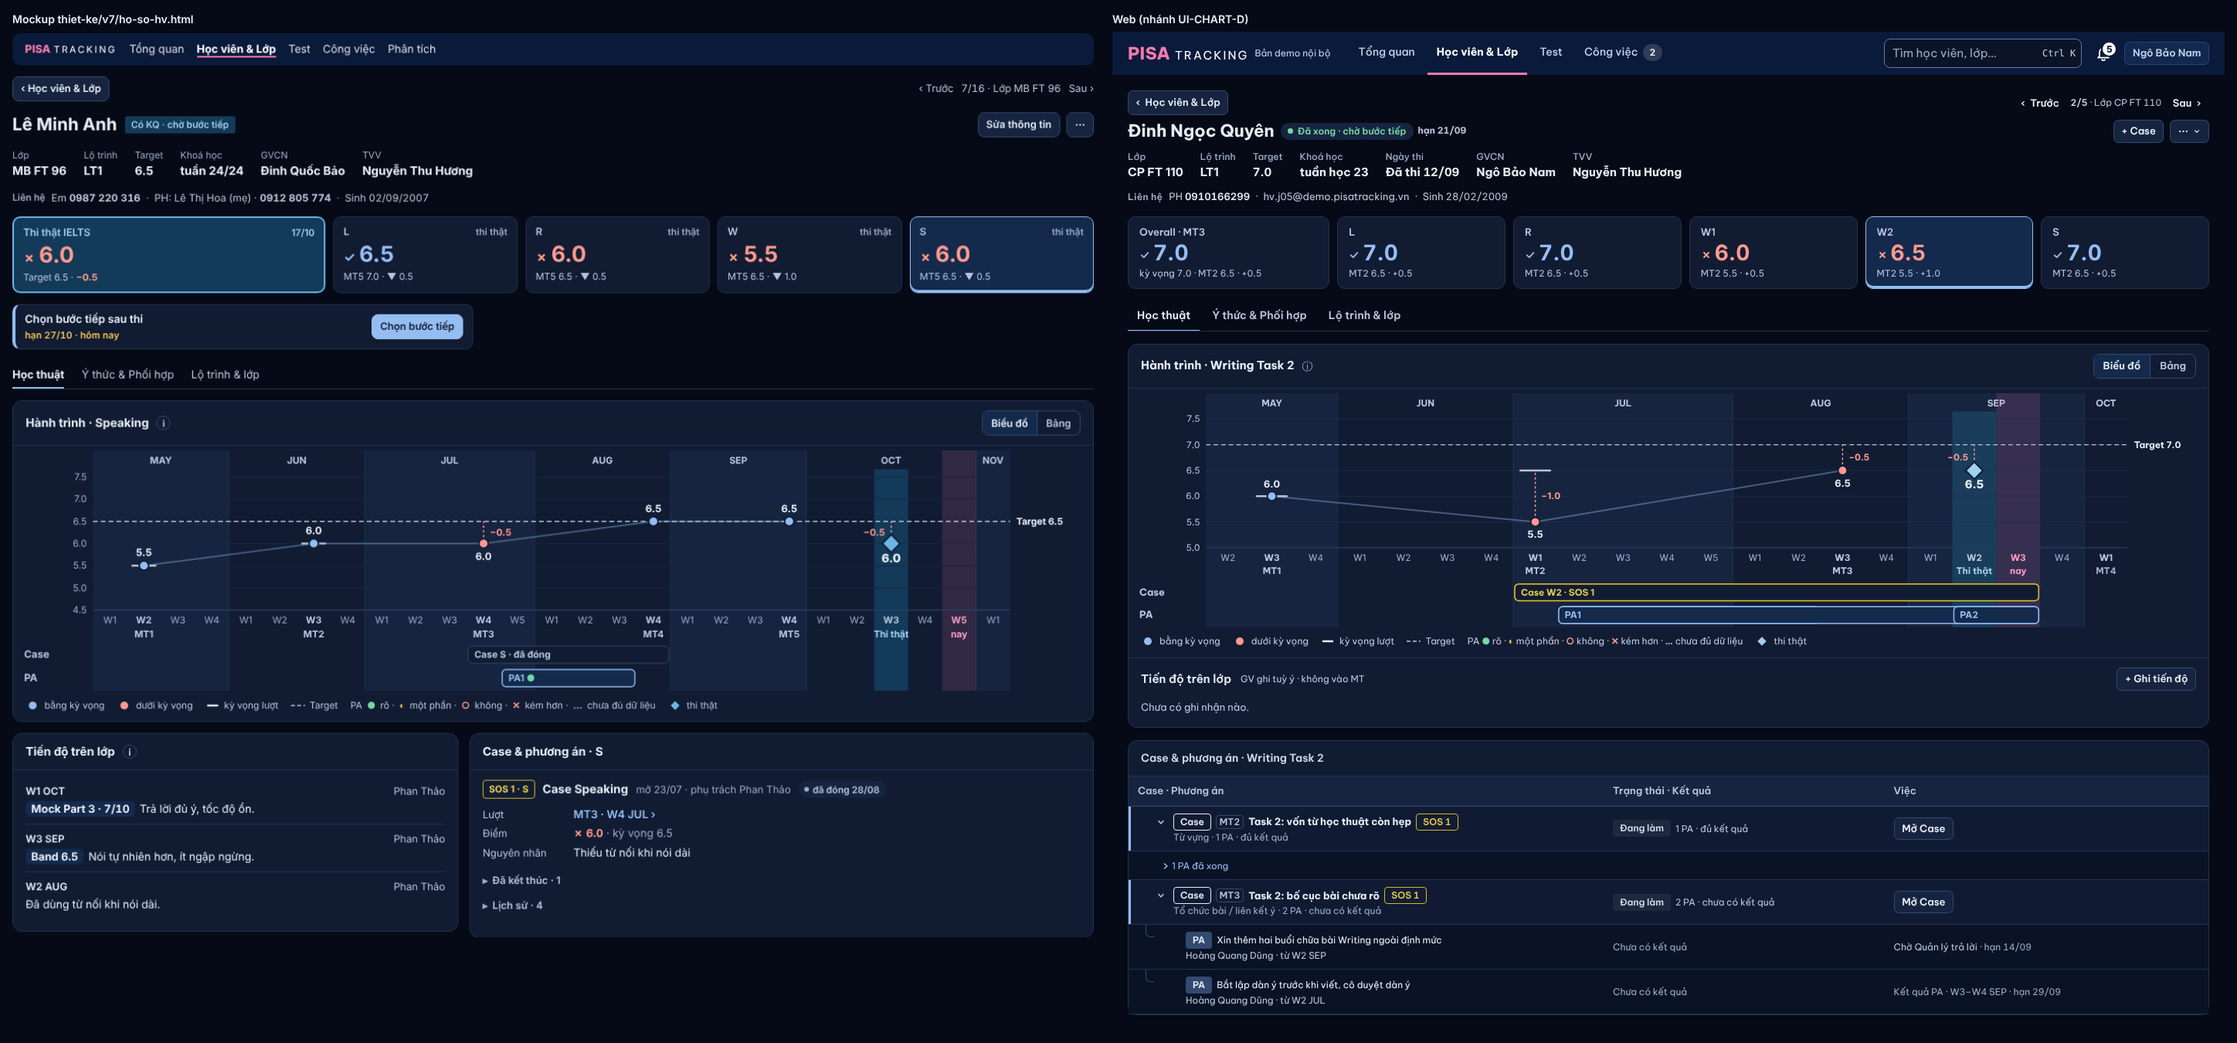
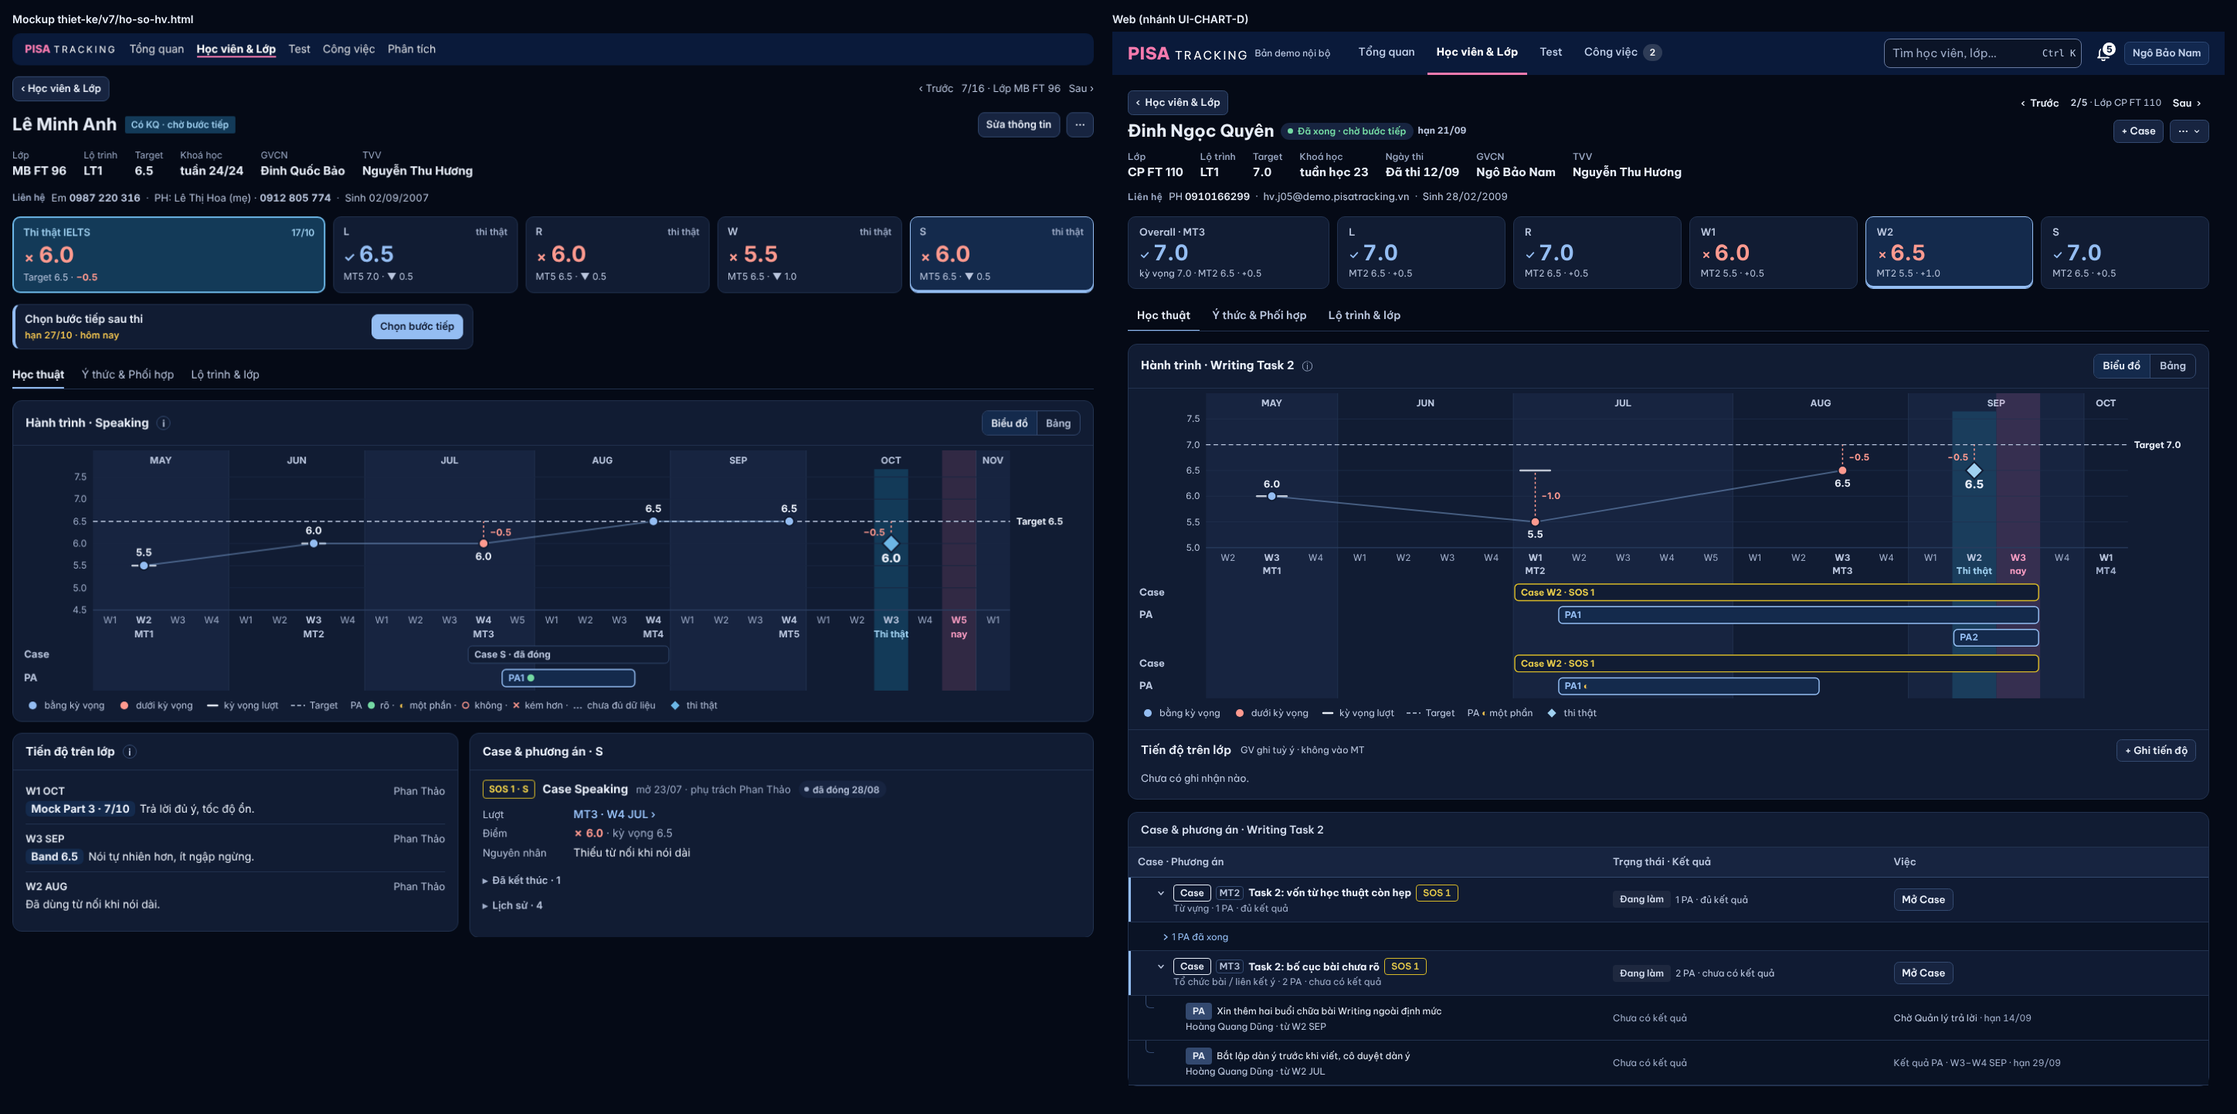
UI-CHART-D: sửa sau critique vòng 2
- Case chồng thời gian → làn riêng; PA song song → hàng PA riêng (không thanh nào bị che, không điểm Tab ẩn)
- S Ex lỗi tải: báo + Thử lại; Speaking chờ S Ex rồi mới vẽ (trục không nhảy)
- Space như Enter, Enter đóng hộp nhỏ trước khi mở; "?" 12 px; chú giải PA chỉ ký hiệu có; ⓘ nói Enter; nhớ Biểu đồ | Bảng trong phiên
- hàng Thi thật chờ KQ bỏ chữ lặp; MT › 375 rộng 44 px; khop-khac [XM-3] [XM-4]

Claude-Session: https://claude.ai/code/session_01RTBZa1KZMGquWszZKdt5DW

diff --git a/web/src/modules/students/BieuDoD.tsx b/web/src/modules/students/BieuDoD.tsx
@@ -86,9 +86,30 @@ export function BieuDoD(o: BieuDoDProps) {
   const trong = (iso: string) => { const c = cot(iso); return c >= 0 && c < n; };
   const Xl = (iso: string) => x0 + Math.min(n, Math.max(0, cot(iso))) * cw;
   const Xc = (iso: string) => Xl(iso) + cw / 2;
-  const coPa = o.cases.some((c) => c.pa.length);
+  /* Case chồng thời gian → làn riêng (mỗi làn một hàng Case + một hàng PA nếu có): không Case nào bị che. */
+  const lan: { cs: CaseD[]; het: number; coPa: boolean; paHang?: Map<number, number>; soHang?: number }[] = [];
+  const hetPa = (p: PaD) => cot(p.den ?? (p.denDk && p.denDk > nay ? p.denDk : nay));
+  [...o.cases].sort((a, b) => a.mo.localeCompare(b.mo) || a.id - b.id).forEach((c) => {
+    const dau = cot(c.mo), het = Math.max(cot(c.dong ?? nay), ...c.pa.map(hetPa));
+    const l = lan.find((x) => x.het < dau);
+    if (l) { l.cs.push(c); l.het = Math.max(l.het, het); l.coPa ||= c.pa.length > 0; } else lan.push({ cs: [c], het, coPa: c.pa.length > 0 });
+  });
   const py0 = 34, py1 = py0 + 170, wy = py1 + 17, mky = py1 + (day_ ? 17 : 35);
-  const cy = mky + 24, pyy = cy + 30, H = o.cases.length ? (coPa ? pyy + 16 : cy + 16) : mky + 10;
+  /* PA chạy song song trong một làn → hàng PA riêng (cùng cách chia làn). */
+  lan.forEach((l) => {
+    const hang: number[] = [];
+    l.paHang = new Map();
+    l.cs.flatMap((c) => c.pa).sort((a, b) => a.tu.localeCompare(b.tu)).forEach((p) => {
+      let i = hang.findIndex((h) => h < cot(p.tu));
+      if (i < 0) { i = hang.length; hang.push(0); }
+      hang[i] = hetPa(p); l.paHang!.set(p.id, i);
+    });
+    l.soHang = hang.length;
+  });
+  const lanY: { cy: number; pyy: number }[] = [];
+  let yLan = mky + 24;
+  lan.forEach((l) => { lanY.push({ cy: yLan, pyy: yLan + 30 }); yLan += 34 + 30 * (l.soHang ?? 0); });
+  const H = lan.length ? yLan - 18 : mky + 10;
   const Y = (v: number) => py1 - ((py1 - py0) * (v - o.lo)) / (o.hi - o.lo);
   const fmt = o.fmt;
 
@@ -98,7 +119,7 @@ export function BieuDoD(o: BieuDoDProps) {
     <g key={k} className="diem-d" tabIndex={0} role="button" aria-label={[g.tieu, ...g.dong].join(' · ')} style={{ cursor: 'pointer', outline: 'none' }}
       onMouseEnter={() => mo(x, y, g, true)} onMouseLeave={() => setGoi((c) => (c?.re && c.g === g ? null : c))}
       onFocus={() => mo(x, y, g)} onClick={() => mo(x, y, g)}
-      onKeyDown={(e) => { if (e.key !== 'Enter') return; if (g.href) navigate(g.href); else g.mo?.(); }}>
+      onKeyDown={(e) => { if (e.key !== 'Enter' && e.key !== ' ') return; e.preventDefault(); setGoi(null); if (g.href) navigate(g.href); else g.mo?.(); }}>
       <rect x={x - 14} y={y - 14} width="28" height="28" fill="transparent" />
       {noi}
     </g>
@@ -191,7 +212,7 @@ export function BieuDoD(o: BieuDoDProps) {
     if (p.loai === 'thieu') {   // chưa có điểm = việc còn nợ, khác vắng: vòng liền + "?"
       ve.push(dau(p.khoa, x, py1, p.goi, <>
         <circle cx={x} cy={py1} r="7" fill="var(--surface)" stroke="rgb(var(--soon-rgb))" strokeWidth="1.5" />
-        <text x={x} y={py1 + 4} textAnchor="middle" fontSize="11" fontWeight="700" fill="rgb(var(--soon-rgb))">?</text>
+        <text x={x} y={py1 + 4} textAnchor="middle" fontSize="12" fontWeight="700" fill="rgb(var(--soon-rgb))">?</text>
       </>));
       return;
     }
@@ -247,17 +268,18 @@ export function BieuDoD(o: BieuDoDProps) {
       {w2 > chuDai * 6.6 + 12 && <text x={a + 8} y={y + 4} fontSize="12" fontWeight="700" fill={mauChu} fontFamily={PHONG}>{chu}</text>}
     </>);
   };
-  if (o.cases.length) {
-    ve.push(<text key="lc" x={0} y={cy + 4} fontSize="13" fontWeight="700" fill="var(--text-dim)" fontFamily={PHONG}>Case</text>);
-    if (coPa) ve.push(<text key="lp" x={0} y={pyy + 4} fontSize="13" fontWeight="700" fill="var(--text-dim)" fontFamily={PHONG}>{t('PA')}</text>);
-    o.cases.forEach((c) => {
+  lan.forEach((l, li) => {
+    const { cy, pyy } = lanY[li];
+    ve.push(<text key={`lc${li}`} x={0} y={cy + 4} fontSize="13" fontWeight="700" fill="var(--text-dim)" fontFamily={PHONG}>Case</text>);
+    if (l.coPa) ve.push(<text key={`lp${li}`} x={0} y={pyy + 4} fontSize="13" fontWeight="700" fill="var(--text-dim)" fontFamily={PHONG}>{t('PA')}</text>);   // một nhãn cho mọi hàng PA của làn
+    l.cs.forEach((c) => {
       const dong = !!c.dong, s2 = (c.sos ?? 0) >= 2;
       const mauV = s2 ? 'rgb(var(--sos2-rgb))' : 'rgb(var(--sos1-rgb))';
       const chu = `Case ${c.chu}${dong ? ` · ${t('đã đóng')}` : c.sos ? ` · SOS ${c.sos}` : ''}`;
       ve.push(thanh(`c${c.id}`, Xl(c.mo) + 2, Xl(c.dong ?? nay) + cw - 2, cy, dong ? 'var(--surface)' : s2 ? 'var(--sos2-nen)' : 'var(--surface)', dong ? 'var(--line-strong)' : mauV,
         chu, chu.length, dong ? 'var(--text-dim)' : s2 ? 'rgb(var(--sos2-chu-rgb))' : 'rgb(var(--sos1-chu-rgb))', c.goi, dong));
       c.pa.forEach((p) => {
-        const g = p.kq ? KQ_PA[p.kq] : null;
+        const g = p.kq ? KQ_PA[p.kq] : null, pyy = lanY[li].pyy + 30 * (l.paHang!.get(p.id) ?? 0);
         if (!p.den && p.denDk && cot(p.denDk) > cot(nay) && trong(nay)) {
           const a = Xl(nay) + cw, b = Xl(p.denDk) + cw;
           ve.push(<g key={`pk${p.id}`} aria-hidden>
@@ -269,7 +291,7 @@ export function BieuDoD(o: BieuDoDProps) {
           <>{p.ten}{g && <>{p.den ? ' ' : ' · '}<tspan fill={g[1]}>{g[0]}</tspan></>}</>, p.ten.length + (g ? 3 : 0), 'var(--accent)', p.goi));
       });
     });
-  }
+  });
 
   /* hộp nhỏ: đặt dưới dấu, kẹp trong khung */
   const goiX = goi ? Math.min(Math.max(8, goi.x - 90), W - 290) : 0;
@@ -300,7 +322,9 @@ export function BieuDoD(o: BieuDoDProps) {
 
 /** Chú giải dưới chart (chỉ mục có trên chart; đọc màn bỏ qua — mỗi dấu đã có tên riêng). */
 export function ChuGiaiD({ kq, kvLuot, vang, thieu, tamDung, sex, pa, thi, kvChu }: {
-  kq: { vuot: boolean; bang: boolean; duoi: boolean } | 'thuong'; kvLuot: boolean; vang: boolean; thieu: boolean; tamDung: boolean; sex: boolean; pa: boolean;
+  kq: { vuot: boolean; bang: boolean; duoi: boolean } | 'thuong'; kvLuot: boolean; vang: boolean; thieu: boolean; tamDung: boolean; sex: boolean;
+  /** Mã kết quả PA có trên chart (chỉ giải thích ký hiệu đang thấy). */
+  pa: string[];
   thi: 'kq' | 'cho' | 'du-kien' | null; kvChu: string;
 }) {
   const c = (x: ReactNode) => <svg viewBox="0 0 18 12" width="18" height="12" className="overflow-visible" aria-hidden>{x}</svg>;
@@ -316,8 +340,8 @@ export function ChuGiaiD({ kq, kvLuot, vang, thieu, tamDung, sex, pa, thi, kvChu
       {tamDung && <span className="inline-flex items-center gap-1.5 whitespace-nowrap">{c(<rect x="0" y="1" width="18" height="10" fill="var(--surface-2)" stroke="var(--line-strong)" />)}{t('Tạm dừng')}</span>}
       {vang && <span className="inline-flex items-center gap-1.5 whitespace-nowrap">{c(<circle cx="9" cy="6" r="4.5" fill="none" stroke="var(--text-dim)" strokeDasharray="2.5 2" />)}{t('vắng')}</span>}
       {sex && <span className="inline-flex items-center gap-1.5 whitespace-nowrap">{c(<rect x="5" y="2" width="8" height="8" transform="rotate(45 9 6)" fill="none" stroke="var(--hong)" strokeWidth="1.6" />)}{t('S Ex (không tính)')}</span>}
-      {pa && <span className="whitespace-nowrap">{t('PA')} {(['improved', 'partial', 'unchanged', 'worse', 'insufficient'] as const).map((k, i) => (
-        <span key={k}>{i > 0 && ' · '}<b style={{ color: KQ_PA[k][1] }}>{KQ_PA[k][0]}</b> {[t('rõ'), t('một phần'), t('không'), t('kém hơn'), t('chưa đủ dữ liệu')][i]}</span>
+      {pa.length > 0 && <span className="whitespace-nowrap">{t('PA')} {(['improved', 'partial', 'unchanged', 'worse', 'insufficient'] as const).filter((k) => pa.includes(k)).map((k, i) => (
+        <span key={k}>{i > 0 && ' · '}<b style={{ color: KQ_PA[k][1] }}>{KQ_PA[k][0]}</b> {{ improved: t('rõ'), partial: t('một phần'), unchanged: t('không'), worse: t('kém hơn'), insufficient: t('chưa đủ dữ liệu') }[k]}</span>
       ))}</span>}
       {thi === 'kq' && <span className="inline-flex items-center gap-1.5 whitespace-nowrap">{c(<rect x="5" y="2" width="8" height="8" transform="rotate(45 9 6)" fill="var(--lich-chu)" />)}{t('thi thật')}</span>}
       {thi === 'cho' && <span className="inline-flex items-center gap-1.5 whitespace-nowrap">{c(<rect x="0" y="0" width="18" height="12" fill="var(--lich-nen)" />)}{t('thi thật · chờ kết quả')}</span>}

diff --git a/web/src/modules/students/HanhTrinhKyNang.tsx b/web/src/modules/students/HanhTrinhKyNang.tsx
@@ -215,6 +215,9 @@ function duLieuKn({ kn, row, attempts, cy, sEx, homNay, tenKn, ten, onMoCase }: 
     fmt: ratio ? (v: number) => `${Math.round(v)} %` : (v: number) => fmtBand(v) };
 }
 
+/** Biểu đồ | Bảng nhớ trong phiên (đổi kỹ năng / qua Overall rồi về vẫn giữ). */
+let xemNho: 'bieu' | 'bang' = 'bieu';
+
 /**
  * HÀNH TRÌNH · {kỹ năng} (UI-CHART-D, mockup M5): đầu khối "Hành trình · Speaking" ⓘ + Biểu đồ | Bảng. Biểu đồ = chart D; Bảng = Lượt · Tuần · Band · Kỳ vọng · ± ·
  * Ghi chú (nhận xét bài MT của kỹ năng ở lượt đó; không có thì vắng / không học / dự kiến), hàng cuối Thi thật. 375: luôn Bảng (chart nhiều cột không đọc được).
@@ -228,7 +231,8 @@ export function HanhTrinhKn({ studentId, kn, row, attempts, cy, homNay, tenKn, t
 }) {
   const sExApi = useApi<SEx[]>(kn === 'speaking' ? `/students/${studentId}/s-expert` : null, [studentId, kn]);
   const hep = useDienThoai();
-  const [xem, setXem] = useState<'bieu' | 'bang'>('bieu');
+  const [xem, setXem_] = useState<'bieu' | 'bang'>(() => xemNho);
+  const setXem = (v: 'bieu' | 'bang') => { xemNho = v; setXem_(v); };
   const tenLuot_ = (a: LuotD) => (cy.ratio ? tenBaiThuong(attempts, a) : tenLuot(a));
   const d = duLieuKn({ kn, row, attempts, cy, sEx: sExApi.data ?? [], homNay, tenKn, ten: tenLuot_, onMoCase });
   const bang = hep || xem === 'bang';
@@ -240,7 +244,7 @@ export function HanhTrinhKn({ studentId, kn, row, attempts, cy, homNay, tenKn, t
         <NutLuat label={t('Cách đọc hành trình')}>
           {cy.ratio
             ? t('Chấm = điểm bài của môn (% so tổng), màu theo ngưỡng đạt của lớp · vạch đứt = ngưỡng đạt · cột hồng = tuần này.')
-            : t('Chấm = điểm MT, màu theo kỳ vọng của lượt · vạch ngắn = kỳ vọng lượt · đứt = Target · cột hồng = tuần này · cột xanh lơ = thi thật. Chạm hoặc Tab một dấu để xem chi tiết.')}
+            : t('Chấm = điểm MT, màu theo kỳ vọng của lượt · vạch ngắn = kỳ vọng lượt · đứt = Target · cột hồng = tuần này · cột xanh lơ = thi thật. Chạm hoặc Tab một dấu để xem chi tiết; Enter mở hồ sơ lượt hoặc Case.')}
         </NutLuat>
         {!hep && (
           <span className="ml-auto inline-flex overflow-hidden rounded-lg border" style={{ borderColor: 'var(--line-strong)' }} role="group" aria-label={t('Kiểu xem')}>
@@ -252,14 +256,20 @@ export function HanhTrinhKn({ studentId, kn, row, attempts, cy, homNay, tenKn, t
           </span>
         )}
       </div>
-      {!d.diem.length && !d.thi ? (
+      {kn === 'speaking' && sExApi.error && (
+        <p className="m-0 flex flex-wrap items-center gap-2 px-4 pt-2 text-[13px] text-slate-400" role="status">{t('Không tải được S Ex.')}
+          <button type="button" className="link appearance-none border-0 bg-transparent p-0 text-[13px] font-semibold" onClick={sExApi.reload}>{t('Thử lại')}</button></p>
+      )}
+      {kn === 'speaking' && !sExApi.data && !sExApi.error && !bang ? <div className="p-4"><Skeleton rows={4} /></div>
+        : !d.diem.length && !d.thi ? (
         <p className="m-0 px-4 py-6 text-center text-[14px] text-slate-400">{t('Chưa có lượt nào ở {kn}.', { kn: tenKn })}</p>
       ) : bang ? <BangKn kn={kn} d={d} cy={cy} homNay={homNay} hep={hep} /> : (
         <>
           <BieuDoD ten={tenKn} diem={d.diem} sex={d.sex} target={d.target} kvPhang={d.kvPhang} cases={d.cases} thi={d.thi} homNay={homNay} tamDung={tamDung} lo={d.lo} hi={d.hi} buoc={d.buoc} fmt={d.fmt} />
           <ChuGiaiD kq={cy.ratio ? 'thuong' : { vuot: d.diem.some((x) => kqSo(x.v, x.kv) === 'vuot'), bang: d.diem.some((x) => kqSo(x.v, x.kv) === 'bang'), duoi: d.diem.some((x) => kqSo(x.v, x.kv) === 'duoi') }}
             kvLuot={!cy.ratio && d.diem.some((x) => x.kv != null && x.kv !== (d.target?.filter((g) => !g.tu || g.tu <= x.tuan).at(-1)?.v ?? null))}
-            vang={d.diem.some((x) => x.loai === 'vang')} thieu={d.diem.some((x) => x.loai === 'thieu')} tamDung={!!tamDung?.length} sex={d.sex.length > 0} pa={d.cases.some((c) => c.pa.length > 0)}
+            vang={d.diem.some((x) => x.loai === 'vang')} thieu={d.diem.some((x) => x.loai === 'thieu')} tamDung={!!tamDung?.length} sex={d.sex.length > 0}
+            pa={d.cases.flatMap((c) => c.pa.map((p) => p.kq).filter((k): k is string => !!k))}
             thi={!d.thi ? null : d.thi.v != null ? 'kq' : d.thi.cho ? 'cho' : 'du-kien'} kvChu={d.kvPhang?.chu ?? 'Target'} />
           {!coDiem && <p className="m-0 px-4 pb-3 text-[13px] text-slate-400">{t('Chưa có điểm MT ở {kn}.', { kn: tenKn })}</p>}
         </>
@@ -279,7 +289,7 @@ function BangKn({ kn, d, cy, homNay, hep }: { kn: string; d: ReturnType<typeof d
     const d2 = p.v != null && p.kv != null ? Math.round((p.v - p.kv) * 10) / 10 : null;
     return {
       khoa: p.khoa, tuan: tuanLich(p.tuan, homNay), sap: p.loai === 'sap',
-      luot: p.loai !== 'sap' && p.goi.href ? <Link to={p.goi.href} className={`link font-semibold ${hep ? 'inline-block py-3 -my-3' : ''}`}>{p.ten} ›</Link> : p.ten,
+      luot: p.loai !== 'sap' && p.goi.href ? <Link to={p.goi.href} className={`link font-semibold ${hep ? 'inline-block min-w-[44px] py-3 -my-3' : ''}`}>{p.ten} ›</Link> : p.ten,
       band: p.v != null ? <span className="font-bold" style={{ color: k ? `rgb(var(--kq-${k}-rgb))` : undefined }}>{k === 'duoi' ? '✗' : k ? '✓' : ''} {p.chuDiem ?? fmtBand(p.v)}</span> : gach,
       kv: p.kv != null ? d.fmt(p.kv) : gach,
       pm: d2 == null ? gach : <span className={d2 < 0 ? 'text-bad' : d2 > 0 ? 'text-ok' : 'text-slate-400'}>{cy.ratio ? (d2 > 0 ? `+${Math.round(d2)}` : d2 < 0 ? `−${Math.round(-d2)}` : '=') : pm(d2)}</span>,

diff --git a/shared/i18n/en/uiChartD.ts b/shared/i18n/en/uiChartD.ts
@@ -7,8 +7,9 @@ export const EN_UI_CHART_D = {
   'Kiểu xem': 'View',
   'Chưa có lượt nào ở {kn}.': 'No attempts in {kn} yet.',
   'Chưa có điểm MT ở {kn}.': 'No MT score in {kn} yet.',
-  'Chấm = điểm MT, màu theo kỳ vọng của lượt · vạch ngắn = kỳ vọng lượt · đứt = Target · cột hồng = tuần này · cột xanh lơ = thi thật. Chạm hoặc Tab một dấu để xem chi tiết.':
-    'Dot = MT score, coloured against that attempt’s expectation · short bar = attempt expectation · dashed = Target · pink column = this week · blue column = real exam. Tap or Tab to a mark for details.',
+  'Chấm = điểm MT, màu theo kỳ vọng của lượt · vạch ngắn = kỳ vọng lượt · đứt = Target · cột hồng = tuần này · cột xanh lơ = thi thật. Chạm hoặc Tab một dấu để xem chi tiết; Enter mở hồ sơ lượt hoặc Case.':
+    'Dot = MT score, coloured against that attempt’s expectation · short bar = attempt expectation · dashed = Target · pink column = this week · blue column = real exam. Tap or Tab to a mark for details; Enter opens the attempt record or the case.',
+  'Không tải được S Ex.': 'Couldn’t load S Ex.',
   'Chấm = điểm bài của môn (% so tổng), màu theo ngưỡng đạt của lớp · vạch đứt = ngưỡng đạt · cột hồng = tuần này.':
     'Dot = subject test score (% of total), coloured against the class pass mark · dashed = pass mark · pink column = this week.',
   'Cách đọc bảng Mock Test': 'How to read the Mock Test table',

diff --git a/web/src/modules/students/StudentDetailPage.tsx b/web/src/modules/students/StudentDetailPage.tsx
@@ -670,7 +670,7 @@ function IeltsAttempts({ attempts, dotId, homNay, onOpen, thi = null }: {
               <td className="td">IELTS</td>
               <td className="td whitespace-nowrap">{ngayThi}</td>
  {thiKq ? (['l', 'r', 'w', 's', 'ovr'] as const).map((k) => <td key={k} colSpan={k === 'w' ? 2 : undefined} className={so}>{diemThi(k)}</td>)
-                : <td colSpan={6} className="td text-center font-normal text-slate-400">{thi !== 'khong' && thi.loai === 'cho' ? t('chờ kết quả') : '—'}</td>}
+                : <td colSpan={6} className="td text-center font-normal text-slate-400">—</td>}
               <td className={so}>{thi !== 'khong' && thi.target != null ? `Target ${fmtBand(thi.target)}` : '—'}</td>
               <td className="td"><KetQuaThi th={thi} /></td>
             </tr>

diff --git a/docs/anh/ui-chart-d/khop-khac.md b/docs/anh/ui-chart-d/khop-khac.md
@@ -74,7 +74,10 @@ Không tính K22 (thuộc PR ②) → 34/37 = 92 %; chủ SP chấp nhận K10, 
 - **[XM-1]** Bảng Mock Test: mockup tách W1 \| W2 (tự ghi [XM] "web gộp W"), kế hoạch nói "khối Mock Test hiện có". Đã làm theo khung duyệt (W1 \| W2, khớp ô điểm),
   thi thật W một số trải hai cột. Muốn giữ W gộp thì đổi lại một chỗ (`KN_MOCK` trong `StudentDetailPage.tsx`).
 - **[XM-2]** 375 Overall: GIỮ thẻ mỗi lượt (PR-UXD Q9, đã duyệt) thay bảng cuộn ngang của mockup; thêm thẻ Thi thật cuối. Đổi sang bảng = PR riêng nếu chủ SP muốn.
-- **[XM-3]** Hai Case cùng kỹ năng mở chồng thời gian (dữ liệu demo em 21: hai Case W2) vẽ chồng trên một làn — mockup chỉ vẽ một Case / làn. Đề xuất: giữ (hiếm), hoặc làn thứ hai ở PR sau.
+- **[XM-3]** Hai Case cùng kỹ năng mở chồng thời gian (demo em 21: hai Case W2) — mockup chỉ vẽ một Case. Đã làm: mỗi Case chồng thời gian một làn Case + PA riêng
+  (critique vòng 2: Case bị che = "bỏ sót"). Không đổi luật.
+- **[XM-4]** MT xếp lịch SAU ngày thi thật (demo em 21: MT4 W1 OCT sau thi 12/09) — kế hoạch nói "Thi thật là cột cuối", nhưng thi thật không phải luật chặn nên web
+  vẫn vẽ MT4 (sau cột thi) và bảng Mock Test vẫn có hàng MT4 "Chưa có điểm". Hỏi chủ SP: sau thi có KQ thì MT chưa làm ẩn đi, hay giữ (mờ, "dự kiến")? Chưa đổi gì.
 
 ## Thao tác TRƯỚC → SAU PR (CLAUDE.md "PR giao diện V5 = nâng cấp")
 
